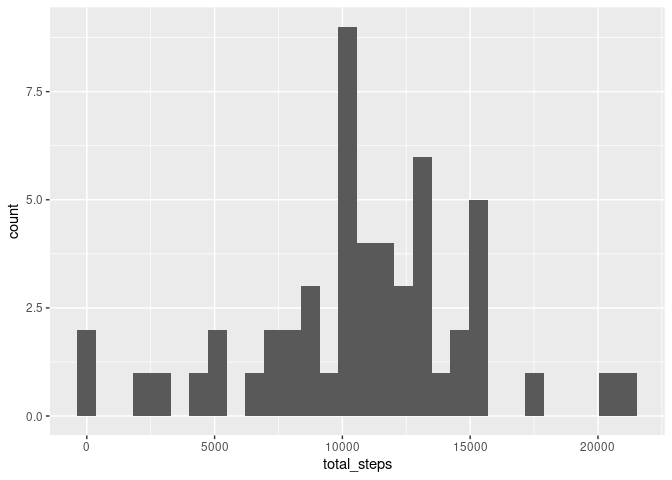
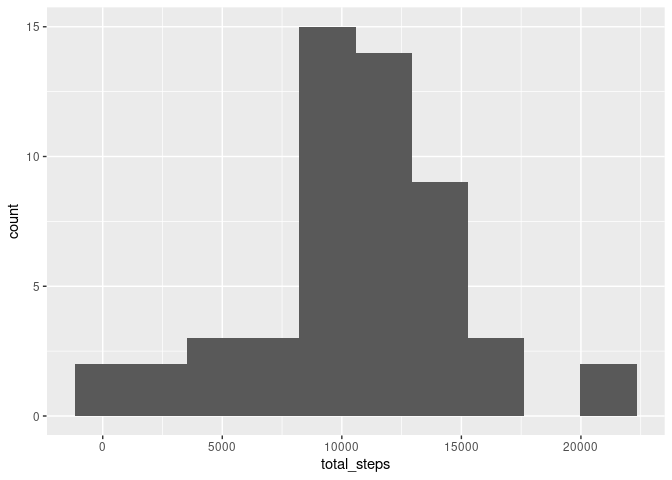
final touches

diff --git a/PA1_template.html b/PA1_template.html
@@ -419,10 +419,9 @@ will deal with missing values later</p>
 
 total_steps %&gt;% 
   ggplot(aes(total_steps)) + 
-  geom_histogram()</code></pre>
-<pre><code>## `stat_bin()` using `bins = 30`. Pick better value with `binwidth`.</code></pre>
+  geom_histogram(bins = 10)</code></pre>
 <pre><code>## Warning: Removed 8 rows containing non-finite values (stat_bin).</code></pre>
[2 lines of base64/hex data omitted]
 <p>Now, we compute center values (mean and median) of total steps. Since
 distribution is close to normal we expect them to be close.</p>
 <pre class="r"><code>middle_values &lt;- total_steps %&gt;% 
@@ -511,9 +510,8 @@ distribution?</p>
 
 total_steps02 %&gt;% 
   ggplot(aes(total_steps)) + 
-  geom_histogram()</code></pre>
-<pre><code>## `stat_bin()` using `bins = 30`. Pick better value with `binwidth`.</code></pre>
[1 lines of base64/hex data omitted]
+  geom_histogram(bins = 10)</code></pre>
[1 lines of base64/hex data omitted]
 <pre class="r"><code>middle_values02 &lt;- total_steps02 %&gt;% 
   summarise(mean_steps = mean(total_steps, na.rm = T), 
             median = median(total_steps, na.rm = T))

diff --git a/PA1_template.md b/PA1_template.md
@@ -80,11 +80,7 @@ total_steps <- df %>%
 
 total_steps %>% 
   ggplot(aes(total_steps)) + 
-  geom_histogram()
-```
-
-```
-## `stat_bin()` using `bins = 30`. Pick better value with `binwidth`.
+  geom_histogram(bins = 10)
 ```
 
 ```
@@ -179,11 +175,7 @@ total_steps02 <- df02%>%
 
 total_steps02 %>% 
   ggplot(aes(total_steps)) + 
-  geom_histogram()
-```
-
-```
-## `stat_bin()` using `bins = 30`. Pick better value with `binwidth`.
+  geom_histogram(bins = 10)
 ```
 
 ![](PA1_template_files/figure-html/unnamed-chunk-9-1.png)<!-- -->
